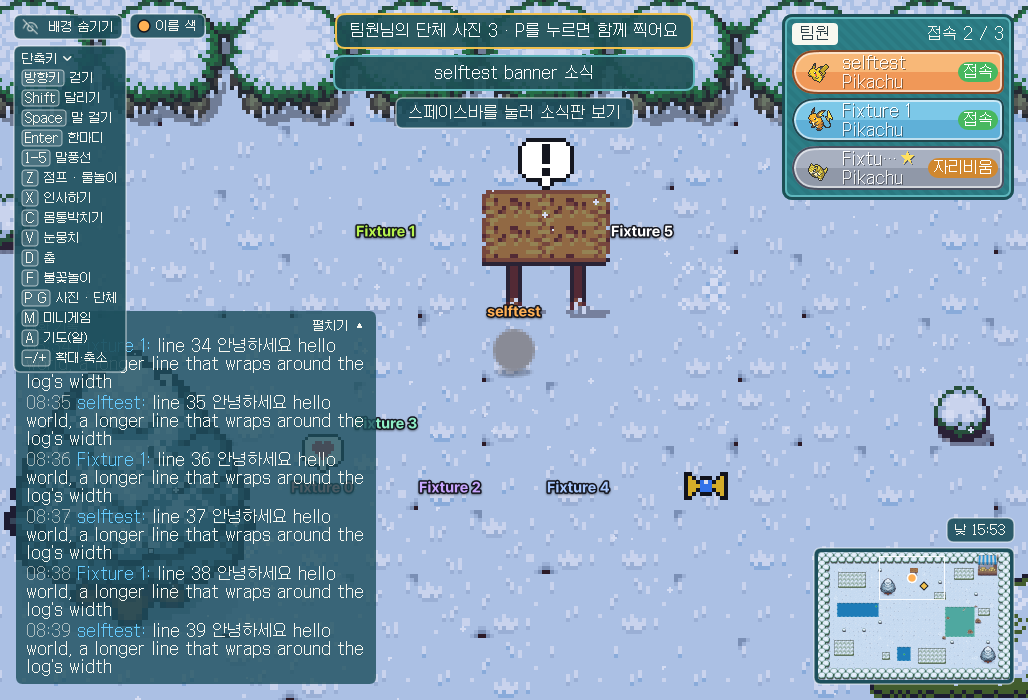
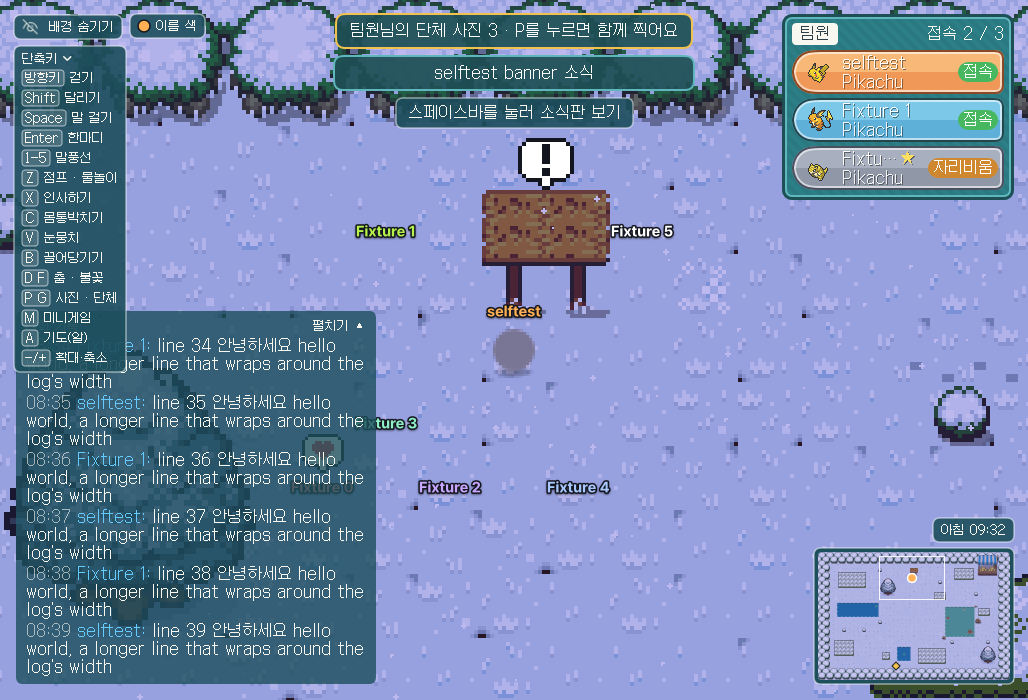
chore(release): bump the team version to 2.5.641 (#368)
* docs(team): add the plaza shortcut guide capture to the Windows list

* chore(release): bump the team version to 2.5.641

Add the plaza shortcut guide capture from the Windows CI runner (run 45361901569) and refresh the other Windows captures from the same run.

---------

diff --git a/TEAM.md b/TEAM.md
@@ -125,6 +125,8 @@ powershell -NoProfile -ExecutionPolicy Bypass -File "C:/Users/<사용자>/.claud
 
 ![광장 창. 샘플 팀원, Windows CI 러너에서 찍은 화면](assets/windows/plaza-window.png)
 
+![왼쪽 단축키 목록(B 끌어당기기 포함)과 팀원에게 말을 걸면 뜨는 메뉴. 샘플 팀원, Windows CI 러너에서 찍은 화면](assets/windows/plaza-shortcuts-menu.png)
+
 ![온천. 샘플 팀원(색 블록), Windows CI 러너에서 찍은 화면](assets/windows/plaza-hot-spring.png)
 
 ![큰 나무에서 민트가 떨어지는 번에 부딪히는 순간. 샘플 팀원(색 블록), Windows CI 러너에서 찍은 화면](assets/windows/plaza-big-tree.png)
